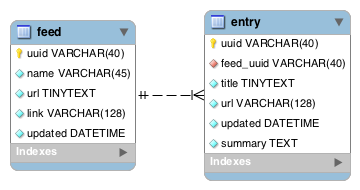
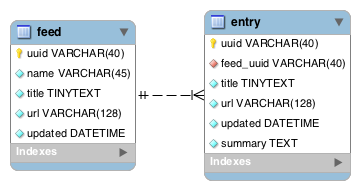
增加rss feed功能

Changed region(s): [[0.0611, 0.5526, 0.3667, 0.6316], [0.0611, 0.4474, 0.275, 0.5263]]

diff --git a/src/main/java/cn/edu/seu/herald/ws/dao/CampusInfoDataAccessImpl.java b/src/main/java/cn/edu/seu/herald/ws/dao/CampusInfoDataAccessImpl.java
@@ -29,7 +29,6 @@ import java.sql.PreparedStatement;
 import java.sql.ResultSet;
 import java.sql.SQLException;
 import javax.sql.DataSource;
-import org.apache.wink.common.model.atom.AtomFeed;
 import org.apache.wink.common.model.synd.SyndEntry;
 import org.apache.wink.common.model.synd.SyndFeed;
 import org.apache.wink.common.model.synd.SyndLink;
@@ -45,6 +44,11 @@ public class CampusInfoDataAccessImpl extends AbstractDataAccess
     private static final String GET_FEED_BY_NAME =
             "SELECT uuid, title, url, updated "
             + "FROM `herald_campus_info`.`feed` WHERE name=?;";
+    private static final String GET_FEED_BY_NAME_AFTER_UUID =
+            "SELECT uuid, title, url, updated "
+            + "FROM `herald_campus_info`.`feed` "
+            + "WHERE name=? AND updated > ("
+            + "SELECT updated FROM `herald_campus_info`.`feed` WHERE uuid=?);";
     private static final String GET_ENTRIES_BY_FEED_UUID =
             "SELECT uuid, title, url, updated, summary "
             + "FROM `herald_campus_info`.`entry` WHERE feed_uuid=?";
@@ -54,11 +58,12 @@ public class CampusInfoDataAccessImpl extends AbstractDataAccess
     }
 
     @Override
-    public AtomFeed getAtomFeedByName(String name) throws DataAccessException {
+    public SyndFeed getFeedByName(String name) throws DataAccessException {
         Connection connection = getConnection();
         try {
             PreparedStatement ps1 = connection.prepareStatement(
                     GET_FEED_BY_NAME);
+            ps1.setString(1, name);
             ResultSet rs1 = ps1.executeQuery();
             String uuid = rs1.getString("uuid");
             String title = rs1.getString("title");
@@ -83,7 +88,47 @@ public class CampusInfoDataAccessImpl extends AbstractDataAccess
                 entry.setSummary(new SyndText(rs2.getString("summary")));
                 syndFeed.addEntry(entry);
             }
-            return new AtomFeed(syndFeed);
+            return syndFeed;
+        } catch (SQLException ex) {
+            closeConnection(connection);
+            throw new DataAccessException(ex);
+        }
+    }
+
+    @Override
+    public SyndFeed getFeedByName(String name, String afterUUID)
+            throws DataAccessException {
+        Connection connection = getConnection();
+        try {
+            PreparedStatement ps1 = connection.prepareStatement(
+                    GET_FEED_BY_NAME_AFTER_UUID);
+            ps1.setString(1, name);
+            ps1.setString(2, afterUUID);
+            ResultSet rs1 = ps1.executeQuery();
+            String uuid = rs1.getString("uuid");
+            String title = rs1.getString("title");
+            String url = rs1.getString("url");
+            Date updated = rs1.getDate("updated");
+
+            SyndFeed syndFeed = new SyndFeed();
+            syndFeed.setId(getUrnUuid(uuid));
+            syndFeed.setTitle(new SyndText(title));
+            syndFeed.setUpdated(updated);
+            syndFeed.addLink(getAltLink(url));
+
+            PreparedStatement ps2 = connection.prepareStatement(
+                    GET_ENTRIES_BY_FEED_UUID);
+            ps2.setString(1, uuid);
+            ResultSet rs2 = ps2.executeQuery();
+            while (rs2.next()) {
+                SyndEntry entry = new SyndEntry();
+                entry.setId(getUrnUuid(rs2.getString("uuid")));
+                entry.setTitle(new SyndText(rs2.getString("title")));
+                entry.setPublished(rs2.getDate("updated"));
+                entry.setSummary(new SyndText(rs2.getString("summary")));
+                syndFeed.addEntry(entry);
+            }
+            return syndFeed;
         } catch (SQLException ex) {
             closeConnection(connection);
             throw new DataAccessException(ex);

diff --git a/src/main/java/cn/edu/seu/herald/ws/resource/CampusInfoResource.java b/src/main/java/cn/edu/seu/herald/ws/resource/CampusInfoResource.java
@@ -30,6 +30,8 @@ import javax.ws.rs.PathParam;
 import javax.ws.rs.Produces;
 import javax.ws.rs.core.MediaType;
 import org.apache.wink.common.model.atom.AtomFeed;
+import org.apache.wink.common.model.rss.RssFeed;
+import org.apache.wink.common.model.synd.SyndFeed;
 import org.springframework.beans.factory.annotation.Autowired;
 import org.springframework.stereotype.Component;
 
@@ -51,8 +53,17 @@ public class CampusInfoResource {
 
     @GET
     @Path("/{name}")
-    @Produces(MediaType.APPLICATION_ATOM_XML)
-    public AtomFeed getFeedByName(@PathParam("name") String name) {
-        return campusInfoDataAccess.getAtomFeedByName(name);
+    @Produces({MediaType.WILDCARD, MediaType.APPLICATION_ATOM_XML})
+    public AtomFeed getAtomFeedByName(@PathParam("name") String name) {
+        SyndFeed syndFeed = campusInfoDataAccess.getFeedByName(name);
+        return new AtomFeed(syndFeed);
+    }
+
+    @GET
+    @Path("/{name}")
+    @Produces("application/rss+xml")
+    public RssFeed getRssFeedByName(@PathParam("name") String name) {
+        SyndFeed syndFeed = campusInfoDataAccess.getFeedByName(name);
+        return new RssFeed(syndFeed);
     }
 }

diff --git a/src/main/java/cn/edu/seu/herald/ws/dao/CampusInfoDataAccess.java b/src/main/java/cn/edu/seu/herald/ws/dao/CampusInfoDataAccess.java
@@ -23,7 +23,7 @@
  */
 package cn.edu.seu.herald.ws.dao;
 
-import org.apache.wink.common.model.atom.AtomFeed;
+import org.apache.wink.common.model.synd.SyndFeed;
 
 /**
  *
@@ -31,5 +31,8 @@ import org.apache.wink.common.model.atom.AtomFeed;
  */
 public interface CampusInfoDataAccess {
 
-    AtomFeed getAtomFeedByName(String name) throws DataAccessException;
+    SyndFeed getFeedByName(String name) throws DataAccessException;
+
+    SyndFeed getFeedByName(String name, String afterUUID)
+            throws DataAccessException;
 }
